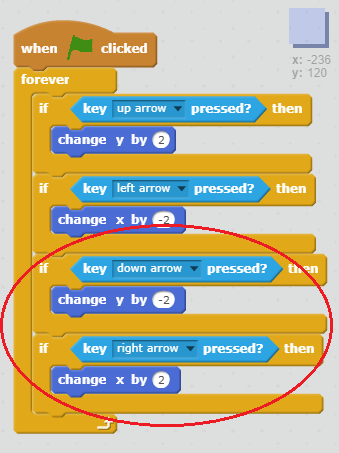
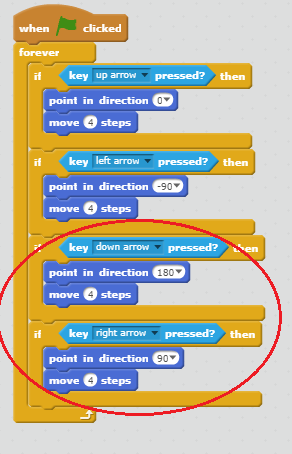
Update step 3 to new movement

diff --git a/en/step_3.md b/en/step_3.md
@@ -14,7 +14,8 @@ The player will use the arrow keys to move around. When the player presses the u
 	when flag clicked
 	forever
 		if <key [up arrow v] pressed? > then
-			change y by (2)
+			point in direction (0)
+            move (4) steps
 		end
 	end
 ```
@@ -25,30 +26,38 @@ The player will use the arrow keys to move around. When the player presses the u
 
 + To move the player to the left, you need to add another `if`{:class="blockcontrol"} block to your player, which changes the x coordinate:
 
-	```blocks
-		when flag clicked
-		forever
-			if <key [up arrow v] pressed? > then
-				change y by (2)
-			end
-			if <key [left arrow v] pressed? > then
-				change x by (-2)
-			end
+```blocks
+	when flag clicked
+	forever
+		if <key [up arrow v] pressed? > then
+			point in direction (0)
+            move (4) steps
 		end
-	```
+        if <key [left arrow v] pressed? > then
+			point in direction (-90)
+            move (4) steps
+		end
+	end
+```
 
 + Add more code to your player sprite so that they can move down and right as well. Use the code you already have to help you.
 
 --- hints ---
 --- hint ---
-To move up, you change y by 2. This means you add on 2 to the y coordinate of the player. What would you have to do to the y coordinate to move the player down?
+To move up, you point in the direction 0 degrees. What would you have to do to move the player down?
 
-To move left, you change x by -2. This means you take away 2 from the x coordinate of the player. What would you have to do to the x coordinate to move the player right?
+To move left, you point in the direction -90 degrees. What would you have to do to move the player right?
 --- /hint ---
 --- hint ---
-Here are the blocks you will need to be able to move down and right
+You will need to change these two blocks:
+```blocks
+<key [ v] pressed>
+```
+```blocks
+point in direction ()
+```
 
-![Moving down and right hint](images/hint-move-down-right.png)
+Duplicate the code you have used to go up, but change these two blocks to make the character move down. Do the same for right.
 --- /hint ---
 --- hint ---
 Here is how your code should look:

diff --git a/en/step_1.md b/en/step_1.md
@@ -1,6 +1,6 @@
 ## Introduction
 
-In this project you'll learn how to create your own open world adventure game.
+In this project you'll learn how to create your own adventure game with multiple rooms for the player to explore.
 
 ### What you will make
 
